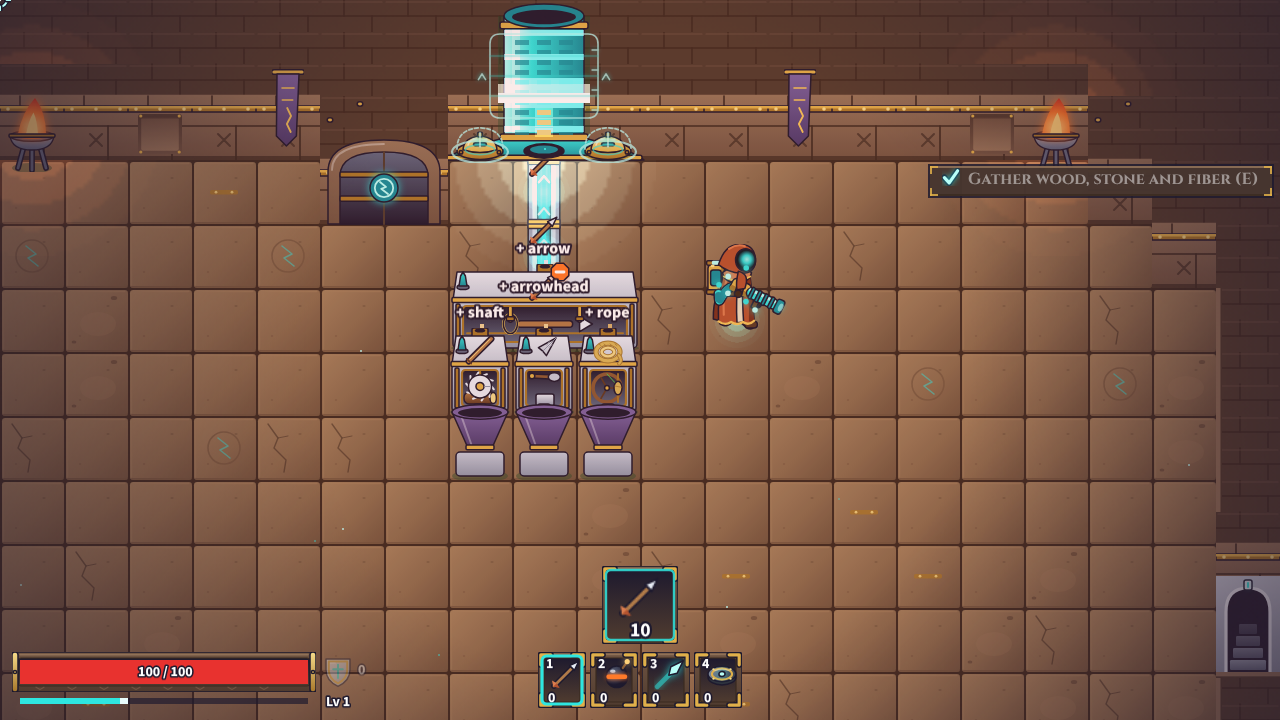
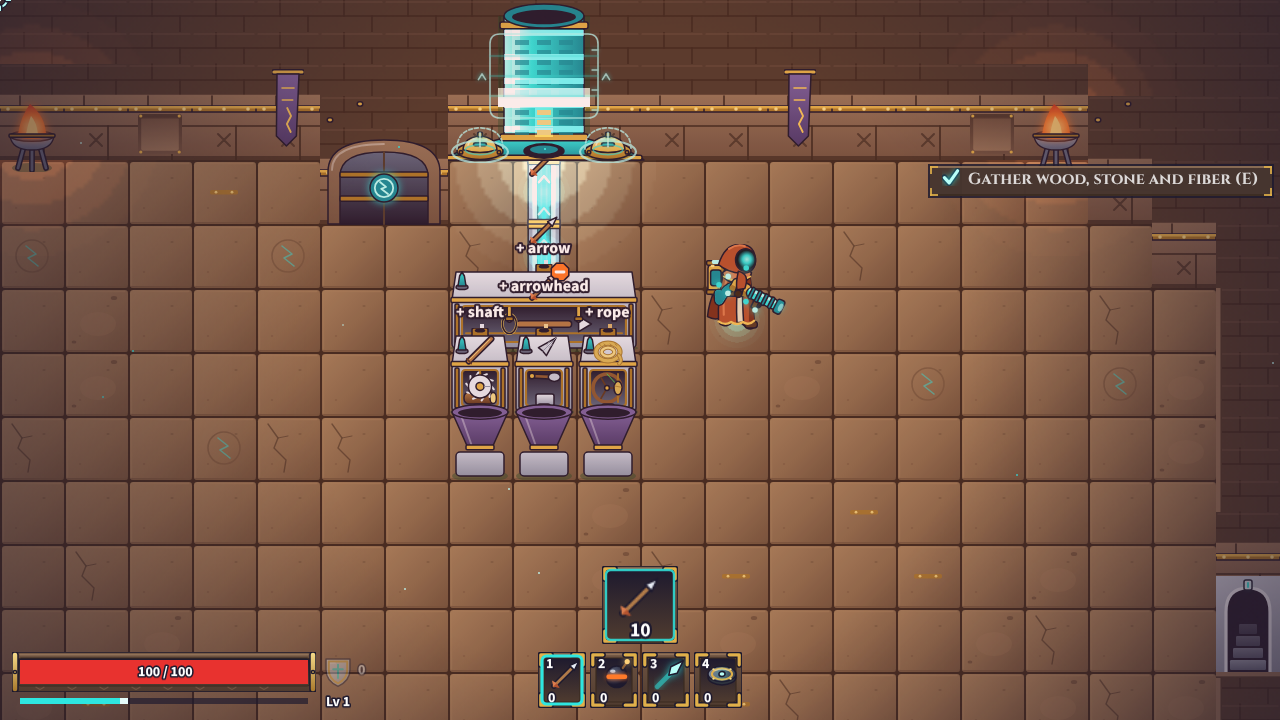
046.7 (Shaun: "2x per resource"): only the final craft of each Region 1 chain doubles; parts and landmines as before; example line stocks 4 of each raw (64 arrows)
Claude-Session: https://claude.ai/code/session_019ig8gw5L4yavYF6tvwkS5C

diff --git a/tests/data/earlyAmmo.test.ts b/tests/data/earlyAmmo.test.ts
@@ -1,41 +1,60 @@
 import { describe, expect, it } from 'vitest';
 import { OUTPUT_CAP } from '../../src/data/foundry';
 import { PIECES } from '../../src/data/pieces';
-import { RECIPES, recipeDef } from '../../src/data/recipes';
+import { RECIPES, recipeDef, type RecipeDef } from '../../src/data/recipes';
 import { STAGES } from '../../src/data/stages';
 
-// 046 (note 1): Region 1's recipes make twice as many per craft, by hand and in machines (machines run the same
-// recipes). Their inputs, Region 2's recipes (the landmine chain, from ley-iron) and the stages don't change.
+// 046 (note 1, 046.7: Shaun, "2× per resource"): each raw resource makes twice the rounds it did, by hand and in
+// machines (machines run the same recipes). Only the last step of each Region 1 chain doubles (arrows, bombs, ley
+// bolts); parts keep their counts, and Region 2's landmine chain and the stages are as they were.
 
-/** Each recipe's output count before 046, and its inputs, which stay. */
-const BEFORE: Readonly<Record<string, { out: number; inputs: Readonly<Record<string, number>> }>> = {
-  shaft: { out: 2, inputs: { wood: 1 } },
-  arrowhead: { out: 2, inputs: { stone: 1 } },
-  rope: { out: 2, inputs: { fiber: 1 } },
-  arrow: { out: 4, inputs: { shaft: 1, arrowhead: 1, rope: 1 } },
-  casing: { out: 1, inputs: { stone: 1 } },
-  fuse: { out: 1, inputs: { 'husk-resin': 1 } },
-  'ley-dust': { out: 2, inputs: { 'ley-crystal': 1 } },
-  bomb: { out: 2, inputs: { casing: 1, fuse: 1, 'ley-dust': 1 } },
-  'ley-bolt': { out: 2, inputs: { 'ley-dust': 1 } },
+/** Each recipe's output count before 046. */
+const BEFORE: Readonly<Record<string, number>> = {
+  shaft: 2,
+  arrowhead: 2,
+  rope: 2,
+  arrow: 4,
+  casing: 1,
+  fuse: 1,
+  'ley-dust': 2,
+  bomb: 2,
+  'ley-bolt': 2,
+  'iron-plate': 2,
+  landmine: 2,
 };
-const REGION_2 = { 'iron-plate': 2, landmine: 2 };
+const FINALS = ['arrow', 'bomb', 'ley-bolt'];
+
+/** Rounds of `itemId` one of each raw it's made from gives, following its chain with `recipes`' counts. */
+function perRaw(itemId: string, out: (r: RecipeDef) => number): number {
+  const r = RECIPES[itemId];
+  if (!r) return 1;
+  // How many crafts the parts from one of each raw allow: the scarcest input decides.
+  const crafts = Math.min(...Object.entries(r.inputs).map(([id, n]) => perRaw(id, out) / n));
+  return crafts * out(r);
+}
 
 describe('early ammo (046)', () => {
-  it("doubles every Region 1 recipe's output, its inputs unchanged", () => {
-    for (const [id, was] of Object.entries(BEFORE)) {
-      expect(RECIPES[id]?.output.count, id).toBe(was.out * 2);
-      expect(RECIPES[id]?.inputs, id).toEqual(was.inputs);
-    }
+  it('doubles only the final craft of each Region 1 chain; parts and inputs are unchanged', () => {
+    for (const [id, was] of Object.entries(BEFORE)) expect(RECIPES[id]?.output.count, id).toBe(FINALS.includes(id) ? was * 2 : was);
   });
 
-  it("leaves Region 2's recipes and every stage as they were", () => {
-    for (const [id, n] of Object.entries(REGION_2)) expect(RECIPES[id]?.output.count, id).toBe(n);
+  it('so each raw resource makes twice the rounds: one wood, stone and fiber make 16 arrows (from 8)', () => {
+    const before = (r: RecipeDef): number => BEFORE[r.id] ?? r.output.count;
+    for (const id of FINALS) expect(perRaw(id, (r) => r.output.count), id).toBe(perRaw(id, before) * 2);
+    expect(perRaw('arrow', (r) => r.output.count)).toBe(16);
+  });
+
+  it("leaves the landmine's cost and count, and every stage, as they were", () => {
+    expect(RECIPES.landmine?.inputs).toEqual({ 'iron-plate': 1, fuse: 1, 'ley-dust': 1 });
+    expect(RECIPES['iron-plate']?.inputs).toEqual({ 'ley-iron': 1 });
+    expect(perRaw('landmine', (r) => r.output.count)).toBe(perRaw('landmine', (r) => BEFORE[r.id] ?? r.output.count));
     for (const st of Object.values(STAGES)) expect(st.batch, st.id).toBe(4);
-    expect(Object.keys(RECIPES).sort()).toEqual([...Object.keys(BEFORE), ...Object.keys(REGION_2)].sort());
+    expect(Object.keys(RECIPES).sort()).toEqual(Object.keys(BEFORE).sort());
   });
 
-  it("lets every machine hold one craft's output, so none can stall on a doubled one", () => {
-    for (const def of Object.values(PIECES)) if (def.kind === 'machine') expect(recipeDef(def.recipeId).output.count, def.id).toBeLessThanOrEqual(OUTPUT_CAP);
+  it("keeps OUTPUT_CAP only as high as the biggest machine craft (a doubled arrow craft)", () => {
+    const biggest = Math.max(...Object.values(PIECES).flatMap((d) => (d.kind === 'machine' ? [recipeDef(d.recipeId).output.count] : [])));
+    expect(OUTPUT_CAP).toBe(biggest);
+    expect(biggest).toBe(8);
   });
 });

diff --git a/src/data/recipes.ts b/src/data/recipes.ts
@@ -21,15 +21,16 @@ const recipe = (id: string, inputs: Record<string, number>, itemId: string, coun
 });
 
 export const RECIPES: Readonly<Record<string, RecipeDef>> = {
-  // 046 (note 1): Region 1's recipes make twice what they did (shafts 2 → 4 and so on), inputs unchanged; the
-  // landmine chain (Region 2, from ley-iron) is as it was.
-  shaft: recipe('shaft', { wood: 1 }, 'shaft', 4),
-  arrowhead: recipe('arrowhead', { stone: 1 }, 'arrowhead', 4),
-  rope: recipe('rope', { fiber: 1 }, 'rope', 4),
+  // 046 (note 1, 046.7, Shaun: "2× per resource"): the last step of each Region 1 chain makes twice what it did
+  // (arrows 4 → 8, bombs and ley bolts 2 → 4), so each raw makes twice the rounds; parts are as they were, and so
+  // is the landmine chain (Region 2, from ley-iron).
+  shaft: recipe('shaft', { wood: 1 }, 'shaft', 2),
+  arrowhead: recipe('arrowhead', { stone: 1 }, 'arrowhead', 2),
+  rope: recipe('rope', { fiber: 1 }, 'rope', 2),
   arrow: recipe('arrow', { shaft: 1, arrowhead: 1, rope: 1 }, 'arrow', 8),
-  casing: { ...recipe('casing', { stone: 1 }, 'casing', 2), requires: 'attuned' },
-  fuse: { ...recipe('fuse', { 'husk-resin': 1 }, 'fuse', 2), requires: 'attuned' },
-  'ley-dust': { ...recipe('ley-dust', { 'ley-crystal': 1 }, 'ley-dust', 4), requires: 'attuned' },
+  casing: { ...recipe('casing', { stone: 1 }, 'casing', 1), requires: 'attuned' },
+  fuse: { ...recipe('fuse', { 'husk-resin': 1 }, 'fuse', 1), requires: 'attuned' },
+  'ley-dust': { ...recipe('ley-dust', { 'ley-crystal': 1 }, 'ley-dust', 2), requires: 'attuned' },
   bomb: { ...recipe('bomb', { casing: 1, fuse: 1, 'ley-dust': 1 }, 'bomb', 4), requires: 'attuned' },
   'ley-bolt': { ...recipe('ley-bolt', { 'ley-dust': 1 }, 'ley-bolt', 4), requires: 'attuned' },
   // 038: the landmine chain, reusing the bomb chain's fuse and shard.

diff --git a/tests/e2e/crafting.spec.ts b/tests/e2e/crafting.spec.ts
@@ -51,9 +51,9 @@ test('the full arrow, bomb and ley bolt chains craft from gathered materials', a
     for (const r of ['shaft', 'arrowhead', 'rope', 'arrow', 'casing', 'fuse', 'ley-dust', 'bomb', 'ley-bolt']) g.craft(r);
     return { before, after: g.getState() };
   });
-  // 046: Region 1's outputs doubled.
+  // 046: the final craft of each Region 1 chain doubled (046.7).
   expect(s.after.inventory.arrow).toBe(s.before + 8);
-  expect(s.after.inventory).toMatchObject({ bomb: 4, 'ley-bolt': 4, shaft: 3, arrowhead: 3, rope: 3 });
+  expect(s.after.inventory).toMatchObject({ bomb: 4, 'ley-bolt': 4, shaft: 1, arrowhead: 1, rope: 1 });
   expect(s.after.crafted).toEqual(['arrow', 'arrowhead', 'bomb', 'casing', 'fuse', 'ley-bolt', 'ley-dust', 'rope', 'shaft']);
   expect(errors).toEqual([]);
 });
@@ -96,12 +96,12 @@ test('the crafting menu keeps the world running, Esc pauses it, and the menu cra
   await page.mouse.up();
   await page.waitForTimeout(100);
   const s = await page.evaluate(() => window.__GAME__?.getState());
-  expect(s?.inventory).toMatchObject({ wood: 0, shaft: 4 });
+  expect(s?.inventory).toMatchObject({ wood: 0, shaft: 2 });
   // A second click with no wood left does nothing.
   await page.mouse.down();
   await page.mouse.up();
   await page.waitForTimeout(100);
-  expect((await page.evaluate(() => window.__GAME__?.getState()))?.inventory.shaft).toBe(4);
+  expect((await page.evaluate(() => window.__GAME__?.getState()))?.inventory.shaft).toBe(2);
   expect(errors).toEqual([]);
 });
 

diff --git a/tests/sim/foundryTutorial.test.ts b/tests/sim/foundryTutorial.test.ts
@@ -197,7 +197,7 @@ describe('first-made popups (046)', () => {
     s.inventory = { wood: 1 };
     expect(craft(s, 'shaft')).toBe(true);
     run(s, 1);
-    expect(s.inventory.shaft).toBe(4);
+    expect(s.inventory.shaft).toBe(2);
     expect(s.crafted).toContain('shaft');
     expect(s.machineMade).toEqual({});
     expect(s.events.firstMade).toEqual([]);
@@ -209,9 +209,9 @@ describe('first-made popups (046)', () => {
     Object.assign(h, { item: 'wood', count: 1 });
     const cutter = put(s, 'cutter', 11, 4, 'up');
     runUntil(s, (x) => x.events.made.length > 0, 200);
-    expect(s.events.made).toEqual([{ id: cutter.id, pieceId: 'cutter', itemId: 'shaft', count: 4 }]);
+    expect(s.events.made).toEqual([{ id: cutter.id, pieceId: 'cutter', itemId: 'shaft', count: 2 }]);
     expect(s.events.firstMade).toEqual([{ id: cutter.id, itemId: 'shaft' }]);
-    expect(summarize(s).machineMade).toEqual({ shaft: 4 });
+    expect(summarize(s).machineMade).toEqual({ shaft: 2 });
   });
 
   it('keeps the machine-made tally through a KO', () => {
@@ -221,6 +221,6 @@ describe('first-made popups (046)', () => {
     put(s, 'cutter', 11, 4, 'up');
     runUntil(s, (x) => (x.machineMade.shaft ?? 0) > 0, 200);
     die(s);
-    expect(s.machineMade).toEqual({ shaft: 4 });
+    expect(s.machineMade).toEqual({ shaft: 2 });
   });
 });

diff --git a/tests/sim/exampleLine.test.ts b/tests/sim/exampleLine.test.ts
@@ -50,9 +50,9 @@ describe('the example line (046)', () => {
     expect(shape(s)).toEqual(EXAMPLE_LINE.map((p) => ({ pieceId: p.pieceId, tx: p.tx, ty: p.ty, facing: p.facing })));
     const stock = s.foundry.pieces.filter((p): p is HopperState => p.kind === 'hopper').map((h) => [h.item, h.count]);
     expect(stock).toEqual([
-      ['wood', 2],
-      ['stone', 2],
-      ['fiber', 2],
+      ['wood', 4],
+      ['stone', 4],
+      ['fiber', 4],
     ]);
     // Ordinary pieces: getState reports them like any other.
     expect(summarize(s).foundry.pieces.map((p) => p.pieceId)).toEqual(EXAMPLE_LINE.map((p) => p.pieceId));
@@ -97,8 +97,8 @@ describe('the example line (046)', () => {
     const s = entered();
     const wood = s.inventory.wood ?? 0;
     removePieceAt(s, 11, 5);
-    expect(s.inventory.wood).toBe(wood + 2);
-    expect(s.events.pickUps).toMatchObject([{ pieceId: 'hopper', items: { wood: 2 } }]);
+    expect(s.inventory.wood).toBe(wood + 4);
+    expect(s.events.pickUps).toMatchObject([{ pieceId: 'hopper', items: { wood: 4 } }]);
     s.crafted = [...s.crafted, 'shaft'];
     removePieceAt(s, 11, 4);
     expect(place(s, 'cutter', 6, 6, 'up')).toMatchObject({ pieceId: 'cutter', tx: 6, ty: 6 });

diff --git a/src/data/exampleLine.ts b/src/data/exampleLine.ts
@@ -4,8 +4,8 @@
 // ordinary: the player can pick them up, move them and rebuild it. Laid out like
 // 027's taught line: three hoppers on row 5, the part machines in front of them,
 // the assembler across row 3, and two conduits up into the mouth tile (12, 0).
-// Starting stock from 046.2: about 60 arrows (2 of each raw make 64 with 046's
-// doubled outputs), so it runs dry during the first outing. Rules: src/sim/exampleLine.ts.
+// Starting stock from 046.2: about 60 arrows (4 of each raw make 64 with 046's
+// doubled arrow craft), so it runs dry during the first outing. Rules: src/sim/exampleLine.ts.
 
 export interface ExamplePiece {
   pieceId: string;
@@ -17,7 +17,7 @@ export interface ExamplePiece {
 }
 
 /** Raws per hopper (046.2). */
-const STOCK = 2;
+const STOCK = 4;
 
 export const EXAMPLE_LINE: readonly ExamplePiece[] = [
   { pieceId: 'hopper', tx: 11, ty: 5, facing: 'up', stock: { itemId: 'wood', count: STOCK } },

diff --git a/tests/sim/flow.test.ts b/tests/sim/flow.test.ts
@@ -92,7 +92,7 @@ describe('machines', () => {
     run(s, CUTTER.craftTicks - 1);
     expect(m.output).toBe(0);
     run(s, 1);
-    expect(m).toMatchObject({ crafting: false, output: 4, status: 'idle' });
+    expect(m).toMatchObject({ crafting: false, output: 2, status: 'idle' });
   });
 
   it('only start a craft whose whole output fits', () => {
@@ -129,10 +129,10 @@ describe('machines', () => {
     const s = foundry();
     const cutter = put<MachineState>(s, 'cutter', 4, 6, 'right');
     put(s, 'grinder', 5, 6, 'right');
-    cutter.output = 5;
+    cutter.output = 7;
     cutter.buffer = { wood: 1 };
     run(s, 5);
-    expect(cutter).toMatchObject({ output: 5, crafting: false, status: 'blocked' });
+    expect(cutter).toMatchObject({ output: 7, crafting: false, status: 'blocked' });
   });
 });
 

diff --git a/tests/sim/crafting.test.ts b/tests/sim/crafting.test.ts
@@ -21,10 +21,10 @@ describe('crafting', () => {
     s.link.attuned = true;
     s.inventory = { wood: 1, shaft: 0, arrowhead: 1, rope: 1, arrow: 0 };
     craft(s, 'shaft');
-    // 046: Region 1's outputs doubled.
-    expect(s.inventory.shaft).toBe(4);
+    expect(s.inventory.shaft).toBe(2);
     craft(s, 'arrow');
-    expect(s.inventory).toMatchObject({ shaft: 3, arrowhead: 0, rope: 0, arrow: 8 });
+    // 046: the final craft of each Region 1 chain doubled.
+    expect(s.inventory).toMatchObject({ shaft: 1, arrowhead: 0, rope: 0, arrow: 8 });
     s.inventory = { casing: 1, fuse: 1, 'ley-dust': 1 };
     craft(s, 'bomb');
     expect(s.inventory.bomb).toBe(4);

diff --git a/tests/e2e/foundryTutorial.spec.ts b/tests/e2e/foundryTutorial.spec.ts
@@ -44,9 +44,9 @@ test('a new game finds the example line in the foundry, sees arrows go up the tu
   expect(s.room).toBe('foundry');
   expect(s.foundry.pieces.map((p) => [p.pieceId, p.tx, p.ty])).toEqual(EXAMPLE_LINE.map((p) => [p.pieceId, p.tx, p.ty]));
   expect(s.foundry.pieces.flatMap((p) => (p.kind === 'hopper' ? [[p.item, p.count]] : []))).toEqual([
-    ['wood', 2],
-    ['stone', 2],
-    ['fiber', 2],
+    ['wood', 4],
+    ['stone', 4],
+    ['fiber', 4],
   ]);
   // The parts pop over their machines as each is first made (slowed, so they can be seen), once the door's fade is
   // over and the foundry is on screen (no meadow nodes drawn).

diff --git a/tests/e2e/hudInventory.spec.ts b/tests/e2e/hudInventory.spec.ts
@@ -194,7 +194,7 @@ test('two "+ part" popups at once never overlap', async ({ page }) => {
     for (let t = 0; t < 600 && !(s.machineMade.shaft && s.machineMade.arrowhead); t++) s = g.step(1);
     return s;
   });
-  expect([s.machineMade.shaft, s.machineMade.arrowhead]).toEqual([4, 4]);
+  expect([s.machineMade.shaft, s.machineMade.arrowhead]).toEqual([2, 2]);
   await expect.poll(async () => (await ui(page))?.madePopups.map((p) => p.text).sort()).toEqual(['+ arrowhead', '+ shaft']);
   const [a, b] = (await ui(page))?.madePopups ?? [];
   if (!a || !b) throw new Error('no popups');

diff --git a/tests/sim/banking.test.ts b/tests/sim/banking.test.ts
@@ -75,8 +75,8 @@ describe('the at-risk helper (031)', () => {
     craft(s, 'shaft');
     expect(itemRisks(s).wood).toEqual({ held: 1, safe: 1, atRisk: 0 });
     // What the crafts made was never banked: all of it is at risk.
-    expect(itemRisks(s).shaft).toEqual({ held: 12, safe: 0, atRisk: 12 });
-    expect(atRiskCounts(s)).toEqual({ shaft: 12 });
+    expect(itemRisks(s).shaft).toEqual({ held: 6, safe: 0, atRisk: 6 });
+    expect(atRiskCounts(s)).toEqual({ shaft: 6 });
   });
 
   it('lists only carried items: none held reads as nothing, whatever was banked', () => {

diff --git a/src/data/foundry.ts b/src/data/foundry.ts
@@ -6,7 +6,7 @@ export const CONDUIT_TICKS = 15;
 /** Most of each input a machine buffers. */
 export const INPUT_CAP = 4;
 
-/** Most finished items a machine holds; it won't start a craft whose output wouldn't fit. 046: 8, one doubled arrow craft. */
+/** Most finished items a machine holds; it won't start a craft whose output wouldn't fit. 046: 8, one doubled arrow craft (the largest). */
 export const OUTPUT_CAP = 8;
 
 /** Ticks between a hopper's pushes. */
